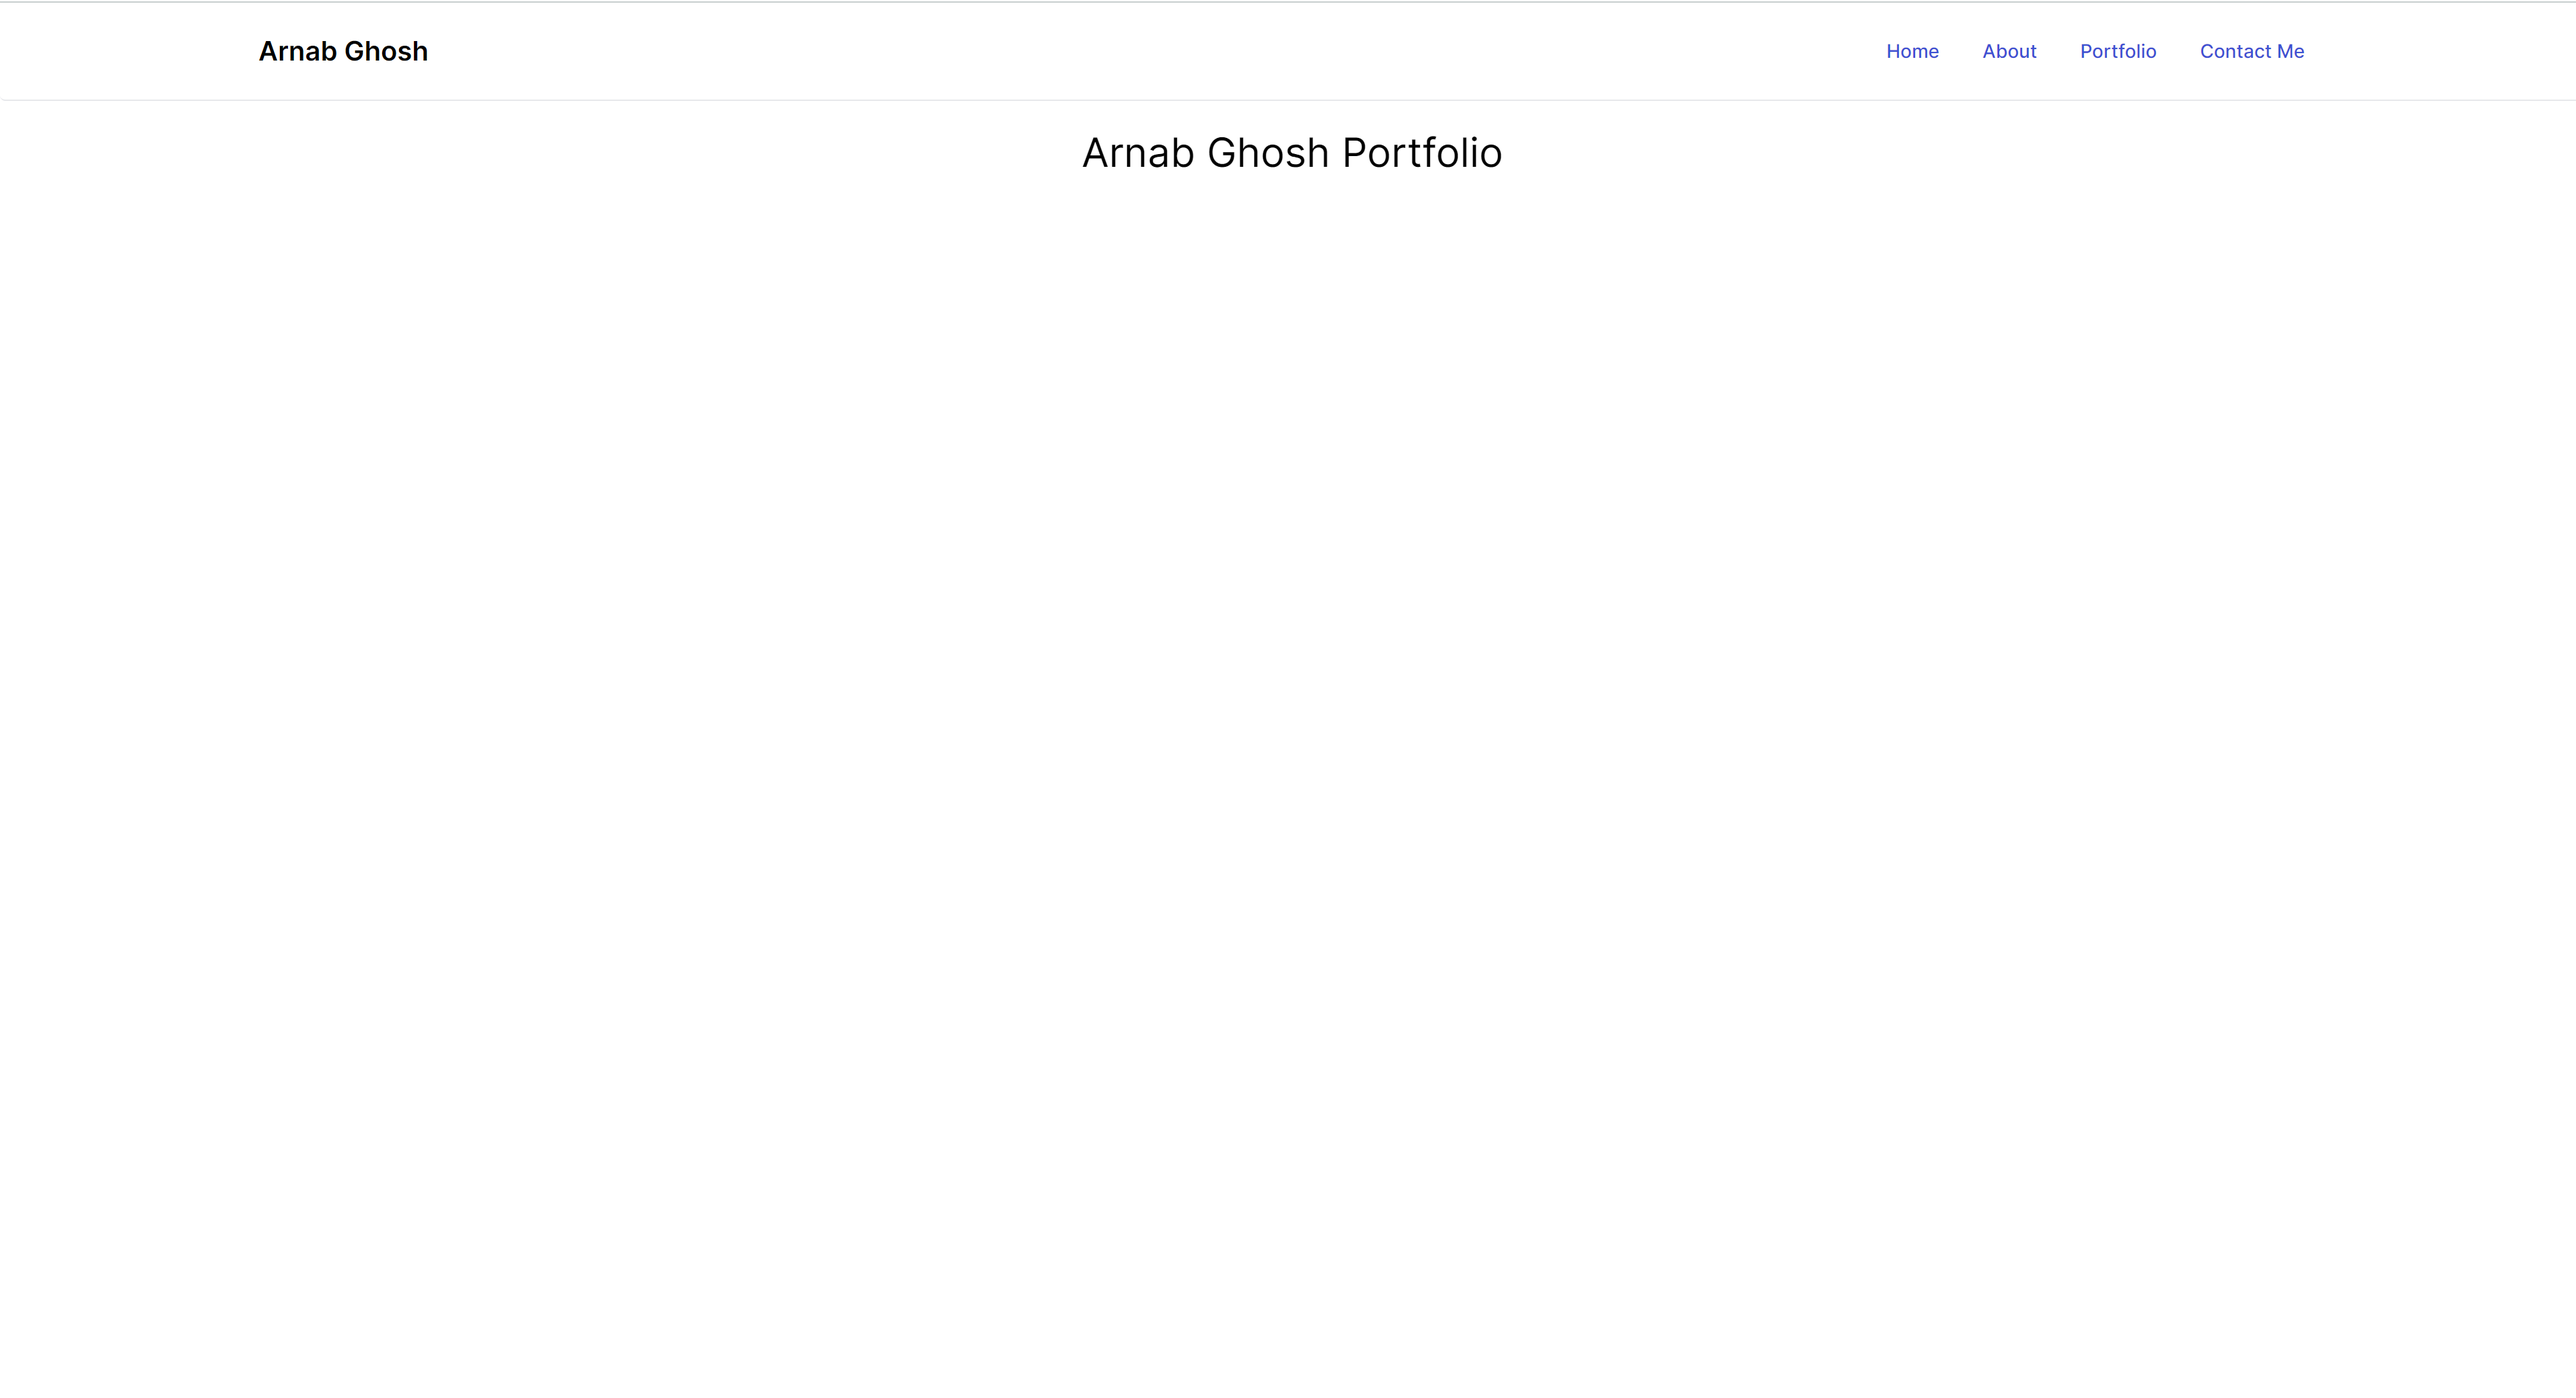
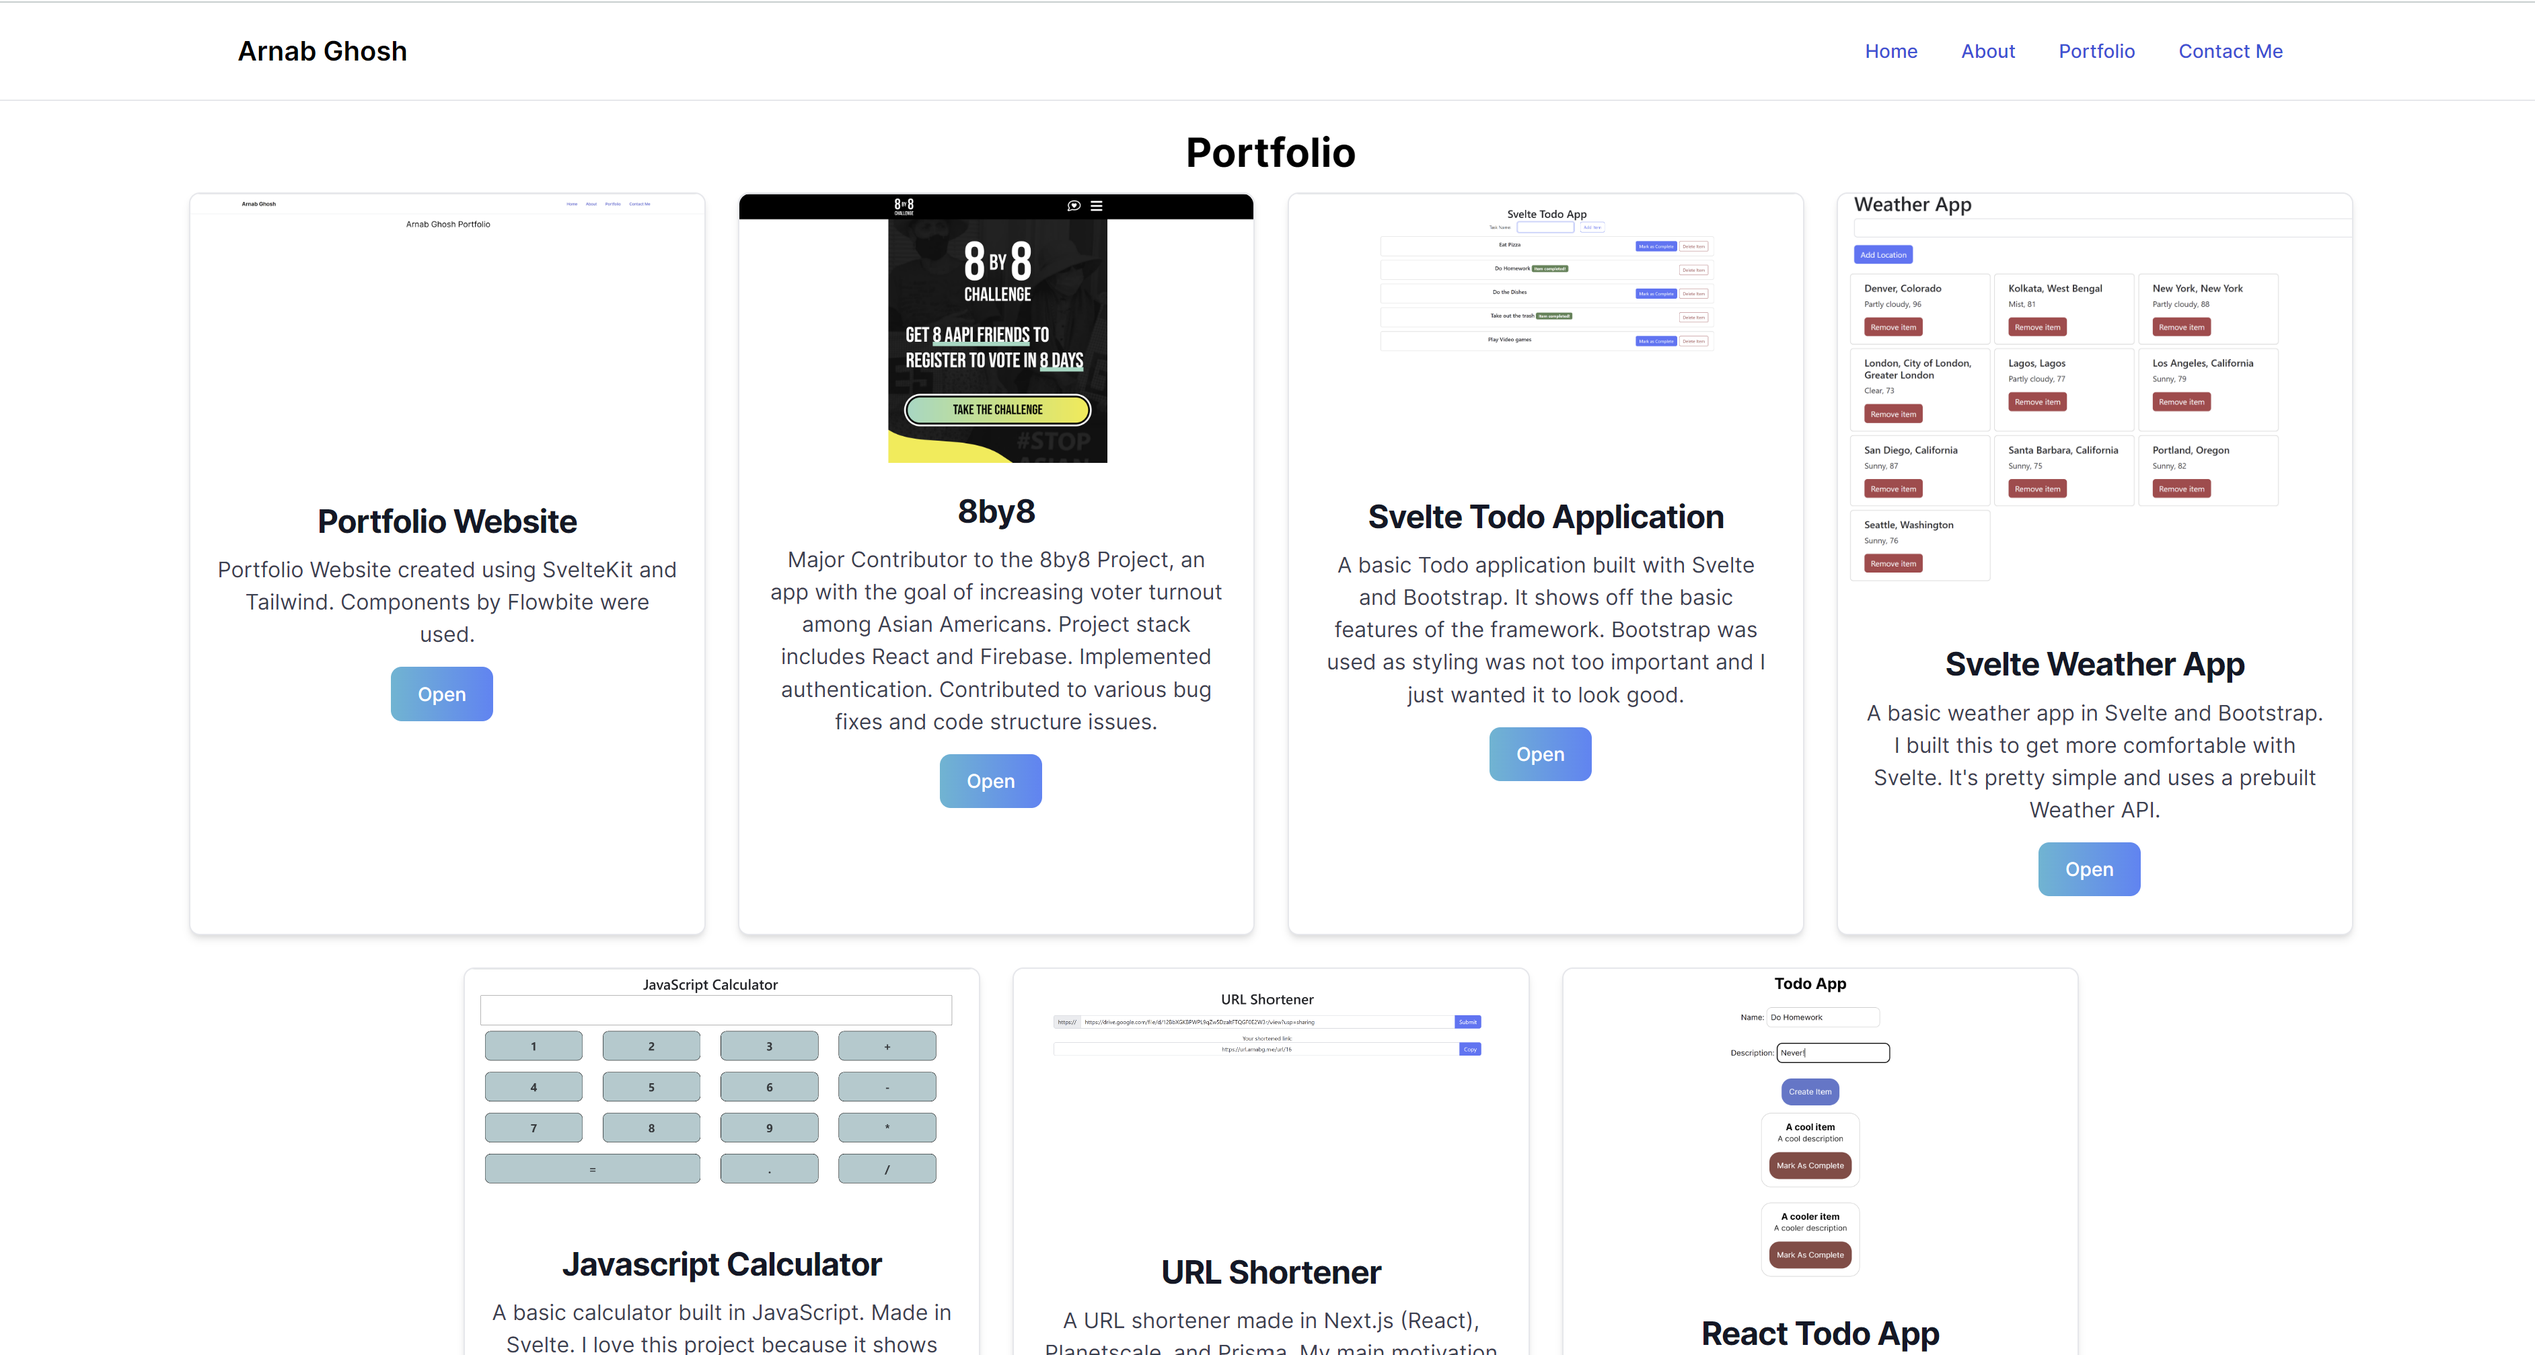
Update some images and add the React Todo App

diff --git a/src/routes/portfolio.svelte b/src/routes/portfolio.svelte
@@ -36,6 +36,11 @@
         A basic calculator built in JavaScript. Made in Svelte. I love this project because it shows off how versatile and awesome stores in Svelte are.
     </Card>
 
+    <Card path="https://react-todo.arnabg.me" img="ReactTodoPreview.png" header="React Todo App">
+        A small todo app built in React. I made this to get comfortable with the very basics of React and get used to state management using Jotai,
+        rather than the React included State and Context API's (which are often a pain to deal with).
+    </Card>
+
     <Card path="https://url.arnabg.me" img="URLPreview.png" header="URL Shortener">
         A URL shortener made in Next.js (React), Planetscale, and Prisma. My main motivation behind this project was to get used to
         the Next.JS API stuff as well as Prisma and Planetscale. Prisma in particularly is very helpful and streamlined this process.

diff --git a/src/routes/about.svelte b/src/routes/about.svelte
@@ -39,7 +39,7 @@
     <div class="container columns-3 ">
         {#each paths as src}
             <div class="">
-                <Image src={src} alt=""></Image>
+                <Image src={src} alt="" />
             </div>
         {/each}
     </div>
